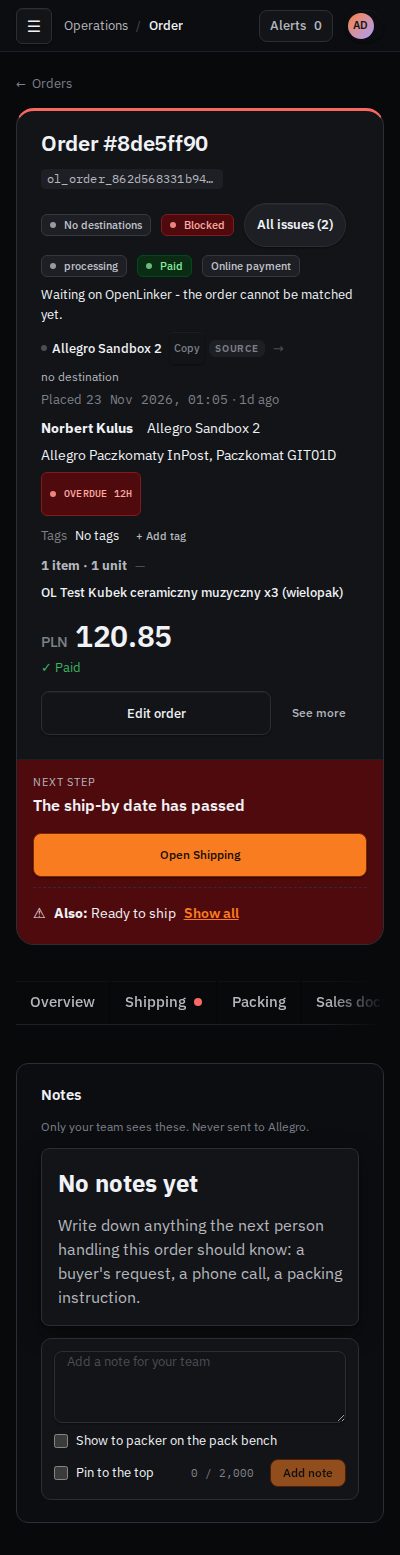
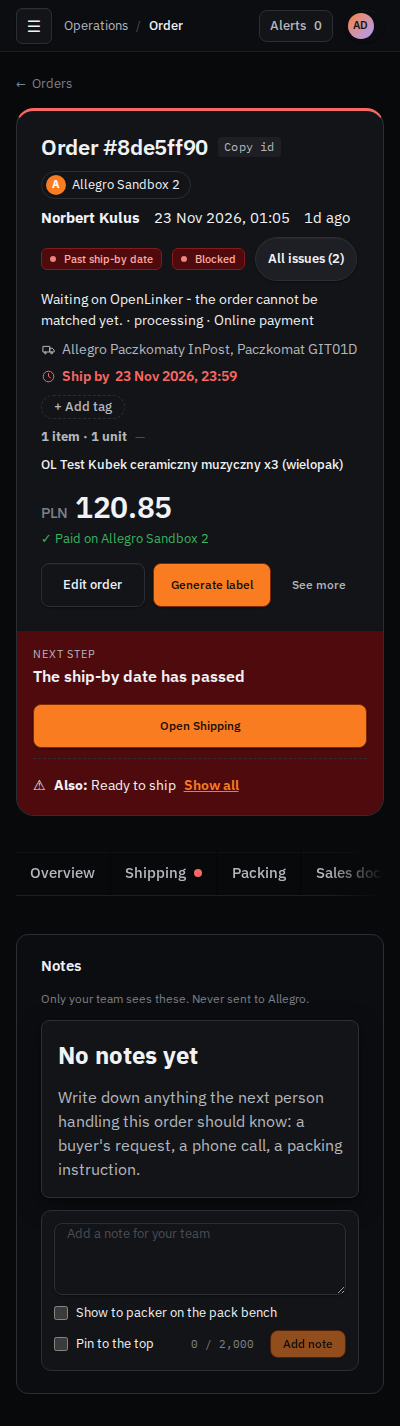
feat(orders): header matches the mockup's rows, status pill and actions
Single status pill for the most urgent problem, All issues pill, one quiet sentence, a grid that puts the actions beside the status, a channel pill with an avatar, a Copy id chip, a Generate label shortcut to the Shipping tab, icons in the facts row and Paid on {channel}. The full order id stays in the page text for assistive tech.

Refs #4286

Claude-Session: https://claude.ai/code/session_01JMBervaMXdCE2di1EPZfgm

diff --git a/apps/web/src/features/orders/components/order-detail-header.tsx b/apps/web/src/features/orders/components/order-detail-header.tsx
@@ -51,6 +51,8 @@ interface OrderDetailHeaderProps {
   deliveryFact?: string | null;
   shipByFact?: { iso: string; tone: StatusBadgeTone } | null;
   channelName?: string | null;
+  /** The most urgent problem as a status pill; falls back to the health badge when there is none. */
+  statusPill?: { tone: StatusBadgeTone; label: string } | null;
 }
 
 const HEALTH_TONE: Record<OrderHealthLevel, StatusBadgeTone> = {
@@ -60,13 +62,6 @@ const HEALTH_TONE: Record<OrderHealthLevel, StatusBadgeTone> = {
   unknown: 'neutral',
 };
 
-/** Payment-status chip tone + label (#928). Colour is reinforcement, not the only signal. */
-const PAYMENT_TONE: Record<PaymentStatus, StatusBadgeTone> = {
-  paid: 'success',
-  cod: 'info',
-  awaiting: 'warning',
-  refunded: 'neutral',
-};
 
 /** C-23: OL cancelled the order but the channel snapshot has not caught up. */
 export function isChannelStatusStale(phase: string | null | undefined, channelStatus: string): boolean {
@@ -86,6 +81,7 @@ export function OrderDetailHeader({
   deliveryFact = null,
   shipByFact = null,
   channelName = null,
+  statusPill = null,
 }: OrderDetailHeaderProps): ReactElement {
   const copy = useMessages('orders').orderDetailHeader;
   const paymentLabels: Record<PaymentStatus, string> = copy.payment;
@@ -114,9 +110,20 @@ export function OrderDetailHeader({
         <h1 className="order-header__title" title={rawNumber}>
           {title}
         </h1>
-        <CopyableId id={order.internalOrderId} />
+        <CopyableId id={order.internalOrderId} label={copy.copyId} />
+        {/* The chip reads "Copy id"; the full id stays in the page text for assistive tech, search and tests. */}
+        <span className="sr-only">{order.internalOrderId}</span>
         <span className="order-header__channel">
-          <ConnectionEntityLabel connectionId={order.sourceConnectionId} showId={false} />
+          {channelName ? (
+            <>
+              <span className="order-header__avatar" aria-hidden="true">
+                {channelName.trim().charAt(0).toUpperCase()}
+              </span>
+              {channelName}
+            </>
+          ) : (
+            <ConnectionEntityLabel connectionId={order.sourceConnectionId} showId={false} showCopy={false} />
+          )}
         </span>
       </div>
 
@@ -144,50 +151,54 @@ export function OrderDetailHeader({
       </div>
 
       <div className="order-header__top order-header__status-row">
-        <StatusBadge tone={HEALTH_TONE[healthLevel]} withDot pulse={healthLevel === 'pending'}>
-          {healthLabel(healthLevel, order.handledInOpenLinker)}
-        </StatusBadge>
-        {/* #2310 — beside the health badge, never instead of it (ADR-059).
-            Header badges are full-size, so no `compact` here. */}
+        {statusPill ? (
+          <StatusBadge tone={statusPill.tone} withDot>
+            {statusPill.label}
+          </StatusBadge>
+        ) : (
+          <StatusBadge tone={HEALTH_TONE[healthLevel]} withDot pulse={healthLevel === 'pending'}>
+            {healthLabel(healthLevel, order.handledInOpenLinker)}
+          </StatusBadge>
+        )}
+        {/* #2310 — beside the health badge, never instead of it (ADR-059). */}
         <OrderPhaseOrWaitingBadge order={order} />
         {issuesCount > 0 && onShowIssues ? (
           <button type="button" className="order-header__issues" onClick={onShowIssues}>
             {interpolate(copy.allIssues, { count: issuesCount })}
           </button>
         ) : null}
-        {/* One line answering the operator's actual question — what is this order
-            waiting on. Detail only (#2081). */}
-        {isOrderLifecyclePhase(order.lifecyclePhase) ? (
-          <span className="order-header__phase-note text-muted">
-            {orderLifecyclePhaseWaitingOn(order.lifecyclePhase)}
-          </span>
-        ) : null}
+        <span className="order-header__phase-note text-muted">
+          {[
+            isOrderLifecyclePhase(order.lifecyclePhase)
+              ? orderLifecyclePhaseWaitingOn(order.lifecyclePhase)
+              : null,
+            // C-23: the channel snapshot keeps saying `processing` until a re-poll, so beside a Cancelled phase it would read as a second status.
+            snapshot.status && !isChannelStatusStale(order.lifecyclePhase, snapshot.status)
+              ? snapshot.status
+              : null,
+            methodLabel,
+          ]
+            .filter(Boolean)
+            .join(' · ')}
+        </span>
         <OrderEditedBadge
           edited={order.editedInOpenLinker}
           needsAttention={order.editsNeedAttention}
         />
-        {/* C-23: the channel snapshot keeps saying `processing` until a re-poll,
-            so beside a Cancelled phase badge it reads as a second, contradicting
-            status. The summary row carries it, labelled as the channel's own. */}
-        {snapshot.status && !isChannelStatusStale(order.lifecyclePhase, snapshot.status) ? (
-          <StatusBadge tone="neutral" withDot>
-            {snapshot.status}
-          </StatusBadge>
-        ) : null}
-        {snapshot.paymentStatus ? (
-          <StatusBadge tone={PAYMENT_TONE[snapshot.paymentStatus]} withDot>
-            {paymentLabels[snapshot.paymentStatus]}
-          </StatusBadge>
-        ) : null}
         <OrderRefundStateBadge refundState={order.refundState} />
-        {methodLabel ? <StatusBadge tone="neutral">{methodLabel}</StatusBadge> : null}
       </div>
 
       {deliveryFact || shipByFact ? (
         <div className="order-header__facts">
-          {deliveryFact ? <span>{deliveryFact}</span> : null}
+          {deliveryFact ? (
+            <span className="order-header__fact">
+              <svg className="order-header__icon" viewBox="0 0 24 24" aria-hidden="true"><path d="M3 7h11v9H3zM14 10h4l3 3v3h-7zM7 19a1.5 1.5 0 100-3 1.5 1.5 0 000 3zM17 19a1.5 1.5 0 100-3 1.5 1.5 0 000 3z" fill="none" stroke="currentColor" strokeWidth="1.6" strokeLinejoin="round" /></svg>
+              {deliveryFact}
+            </span>
+          ) : null}
           {shipByFact ? (
-            <span className={`order-header__shipby order-header__shipby--${shipByFact.tone}`}>
+            <span className={`order-header__fact order-header__shipby order-header__shipby--${shipByFact.tone}`}>
+              <svg className="order-header__icon" viewBox="0 0 24 24" aria-hidden="true"><circle cx="12" cy="12" r="8.5" fill="none" stroke="currentColor" strokeWidth="1.6" /><path d="M12 7.5V12l3 2" fill="none" stroke="currentColor" strokeWidth="1.6" strokeLinecap="round" /></svg>
               {copy.shipBy} <TimeDisplay iso={shipByFact.iso} format="datetime" className="tabular" />
             </span>
           ) : null}
@@ -231,7 +242,9 @@ export function OrderDetailHeader({
         {snapshot.paymentStatus ? (
           <span className="order-header__paid text-muted">
             {snapshot.paymentStatus === 'paid' ? <span aria-hidden="true">✓ </span> : null}
-            {paymentLabels[snapshot.paymentStatus]}
+            {snapshot.paymentStatus === 'paid' && channelName
+              ? interpolate(copy.paidOn, { channel: channelName })
+              : paymentLabels[snapshot.paymentStatus]}
           </span>
         ) : null}
         {actions ? <div className="order-header__actions">{actions}</div> : null}

diff --git a/apps/web/src/index.css b/apps/web/src/index.css
@@ -40447,3 +40447,26 @@ tr:hover .pm-move,tr:focus-within .pm-move{opacity:1}
 .order-header__facts { color: var(--text-secondary); font-size: 0.875rem; gap: 6px 18px; }
 .order-header__shipby--error { color: var(--status-error); font-weight: 600; }
 .order-header__shipby--warning { color: var(--status-warning-strong, var(--status-warning)); font-weight: 600; }
+/* header details per the mockup */
+.order-header__avatar { width: 20px; height: 20px; border-radius: 50%; display: inline-grid; place-items: center; background: var(--accent-primary); color: #fff; font-size: 0.6875rem; font-weight: 700; margin-right: 6px; }
+.order-header__channel { padding: 3px 10px 3px 4px; }
+.order-header__icon { width: 15px; height: 15px; flex: none; }
+.order-header__fact { display: inline-flex; align-items: center; gap: 6px; }
+.order-header__tags-label, .order-header__tags .text-muted { position: absolute; width: 1px; height: 1px; overflow: hidden; clip: rect(0 0 0 0); white-space: nowrap; }
+.order-header__phase-note:empty { display: none; }
+/* header grid: title and price, identity and paid, status and actions (desktop) */
+@media (min-width: 761px) {
+  .order-header__body { display: grid; grid-template-columns: minmax(0, 1fr) auto; column-gap: 24px; row-gap: 10px; }
+  .order-header__main, .order-header__aside { display: contents; }
+  .order-header__main > .order-header__top:not(.order-header__status-row) { grid-column: 1; grid-row: 1; }
+  .order-header__total { grid-column: 2; grid-row: 1; justify-self: end; }
+  .order-header__identity { grid-column: 1; grid-row: 2; }
+  .order-header__paid { grid-column: 2; grid-row: 2; justify-self: end; }
+  .order-header__status-row { grid-column: 1; grid-row: 3; align-self: center; }
+  .order-header__actions { grid-column: 2; grid-row: 3; justify-self: end; margin-top: 0; }
+  .order-header__facts { grid-column: 1 / -1; grid-row: 4; }
+  .order-header__tags { grid-column: 1 / -1; grid-row: 5; }
+  .order-header__summary-line { grid-column: 1 / -1; grid-row: 6; }
+  .order-header__phase-note { flex: 1 1 auto; min-width: 0; }
+}
+.order-header__tags .button, .order-header__tags [class*='add'] { border: 1px dashed var(--border-default); border-radius: var(--radius-pill); padding: 4px 12px; font-size: 0.8125rem; background: transparent; }

diff --git a/apps/web/src/pages/orders/order-detail-page.tsx b/apps/web/src/pages/orders/order-detail-page.tsx
@@ -662,6 +662,8 @@ export function OrderDetailPage(): ReactElement {
     { id: 'technical', label: copy.tabs.technical, count: failedDestinations.length + snapshot.parseWarnings.length, flag: issueTabs.has('technical') },
   ];
 
+  const canGenerateLabel =
+    fulfillment === 'not-shipped' && snapshot.status !== 'cancelled' && hasShippingCapability;
   const headerActions = (
     <>
     <OrderConfirmRefundAction
@@ -695,6 +697,16 @@ export function OrderDetailPage(): ReactElement {
       onSaved={handleOrderEdited}
       onGoTo={scrollToRemedy}
     />
+    {canGenerateLabel ? (
+      <Button
+        className="button--sm"
+        onClick={() => {
+          handleTabChange('shipping');
+        }}
+      >
+        {copy.generateLabel}
+      </Button>
+    ) : null}
     <OrderHeaderMenu label={copy.tabs.seeMore}>
     <GiftsGuide variant="detail" />
     <OrderAddGiftAction
@@ -769,6 +781,12 @@ export function OrderDetailPage(): ReactElement {
           [snapshot.shippingAddress?.firstName, snapshot.shippingAddress?.lastName]
             .filter(Boolean)
             .join(' ') || null
+        }
+        channelName={cancelSourceName}
+        statusPill={
+          nextStep && nextStep.tone !== 'info'
+            ? { tone: nextStep.tone === 'error' ? 'error' : 'warning', label: copy.nextStep.short[nextStep.kind] }
+            : null
         }
         deliveryFact={[carrier, snapshot.pickupPoint?.name].filter(Boolean).join(', ') || null}
         shipByFact={
